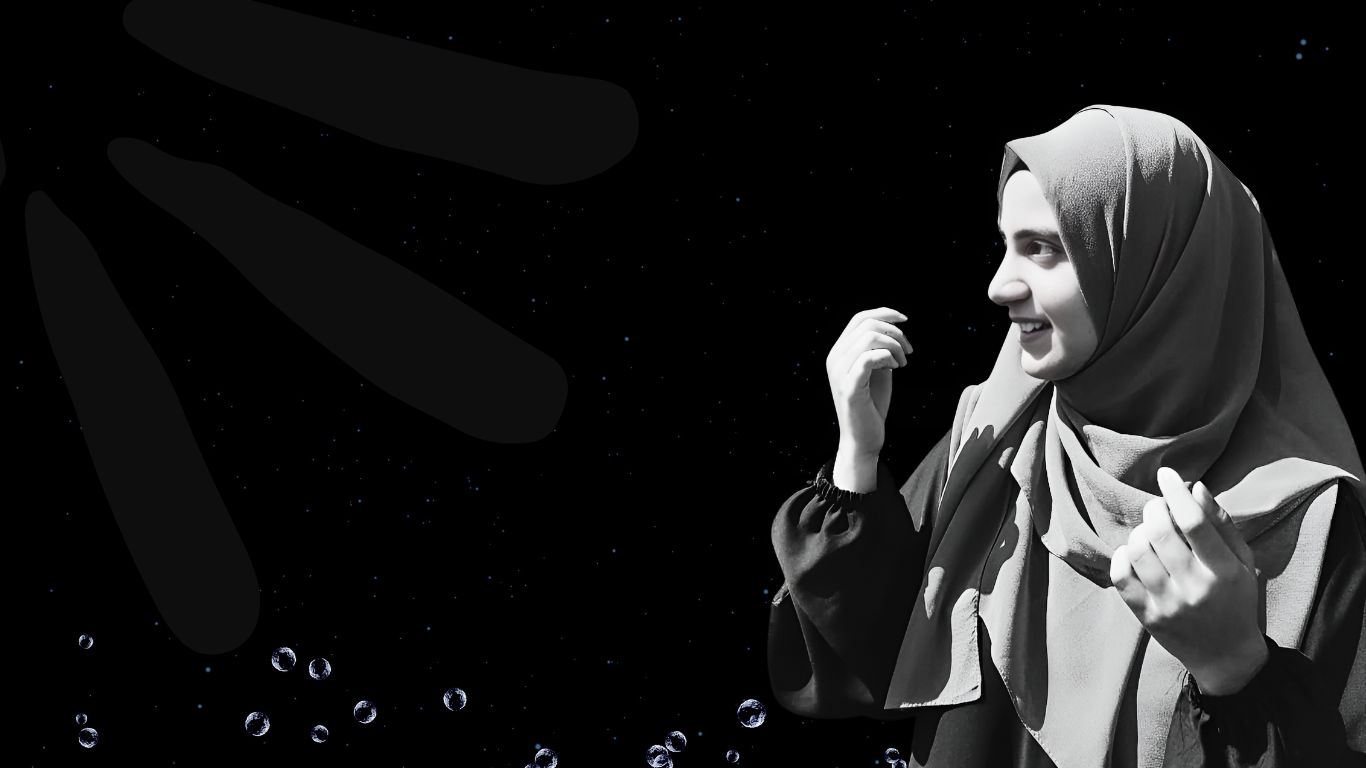
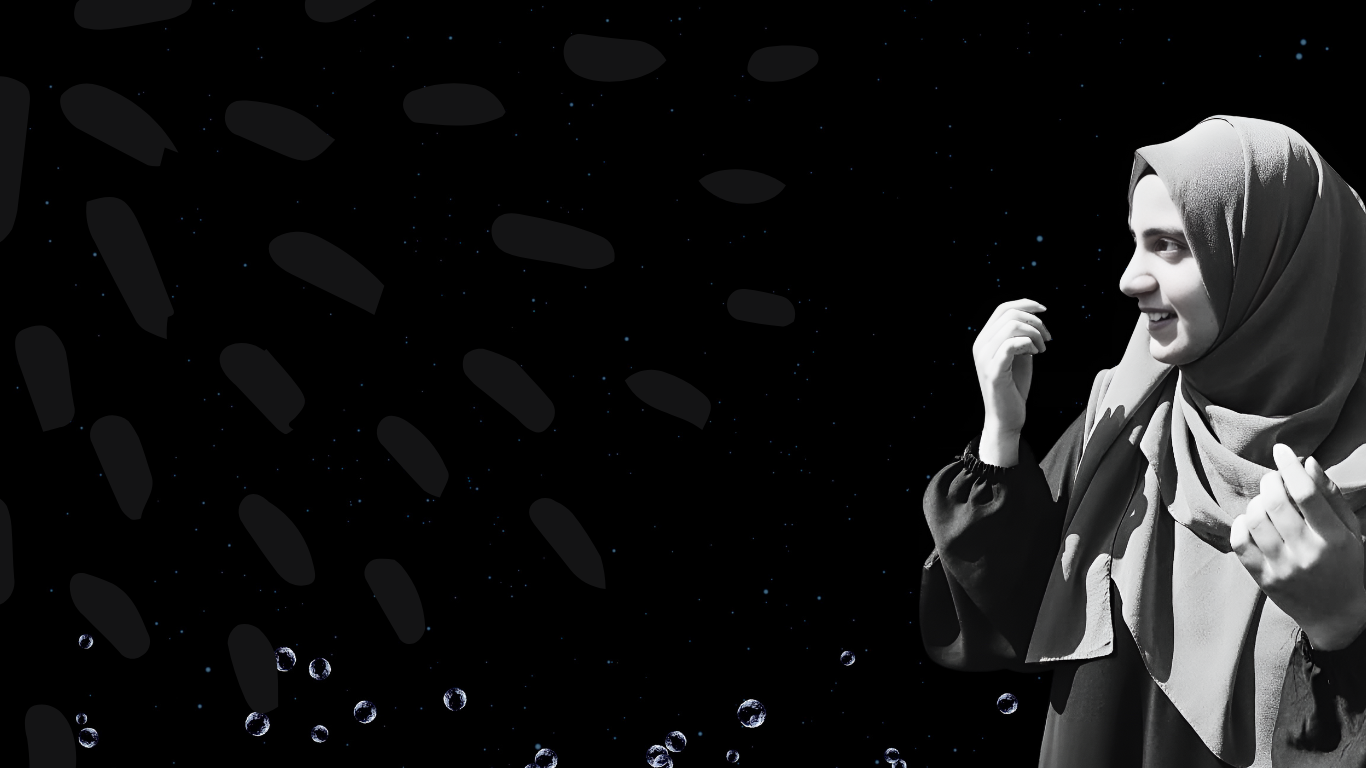
changes in home page

Changed region(s): [[0.5534, 0.125, 1.0, 1.0]]

diff --git a/assets/css/main.css b/assets/css/main.css
@@ -755,6 +755,11 @@ section,
   .hero p {
     font-size: 20px;
   }
+
+  .hero img {
+    object-fit: cover;
+    object-position: right; /* Crop the left side of the image */
+  }
 }
 
 /*--------------------------------------------------------------
